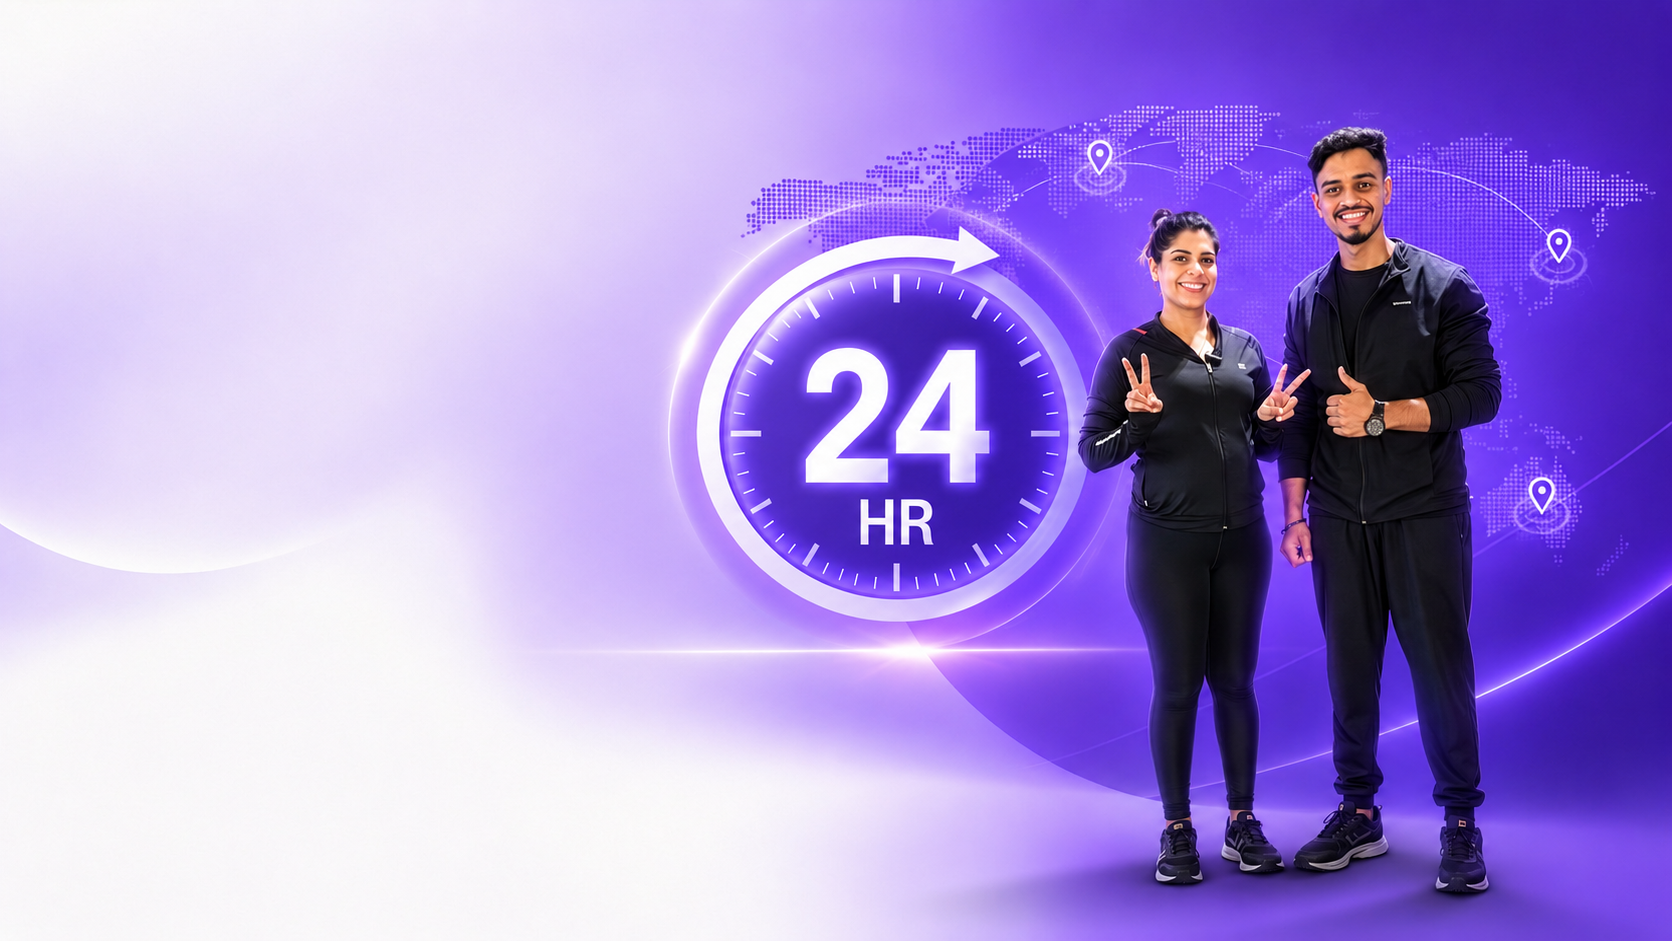
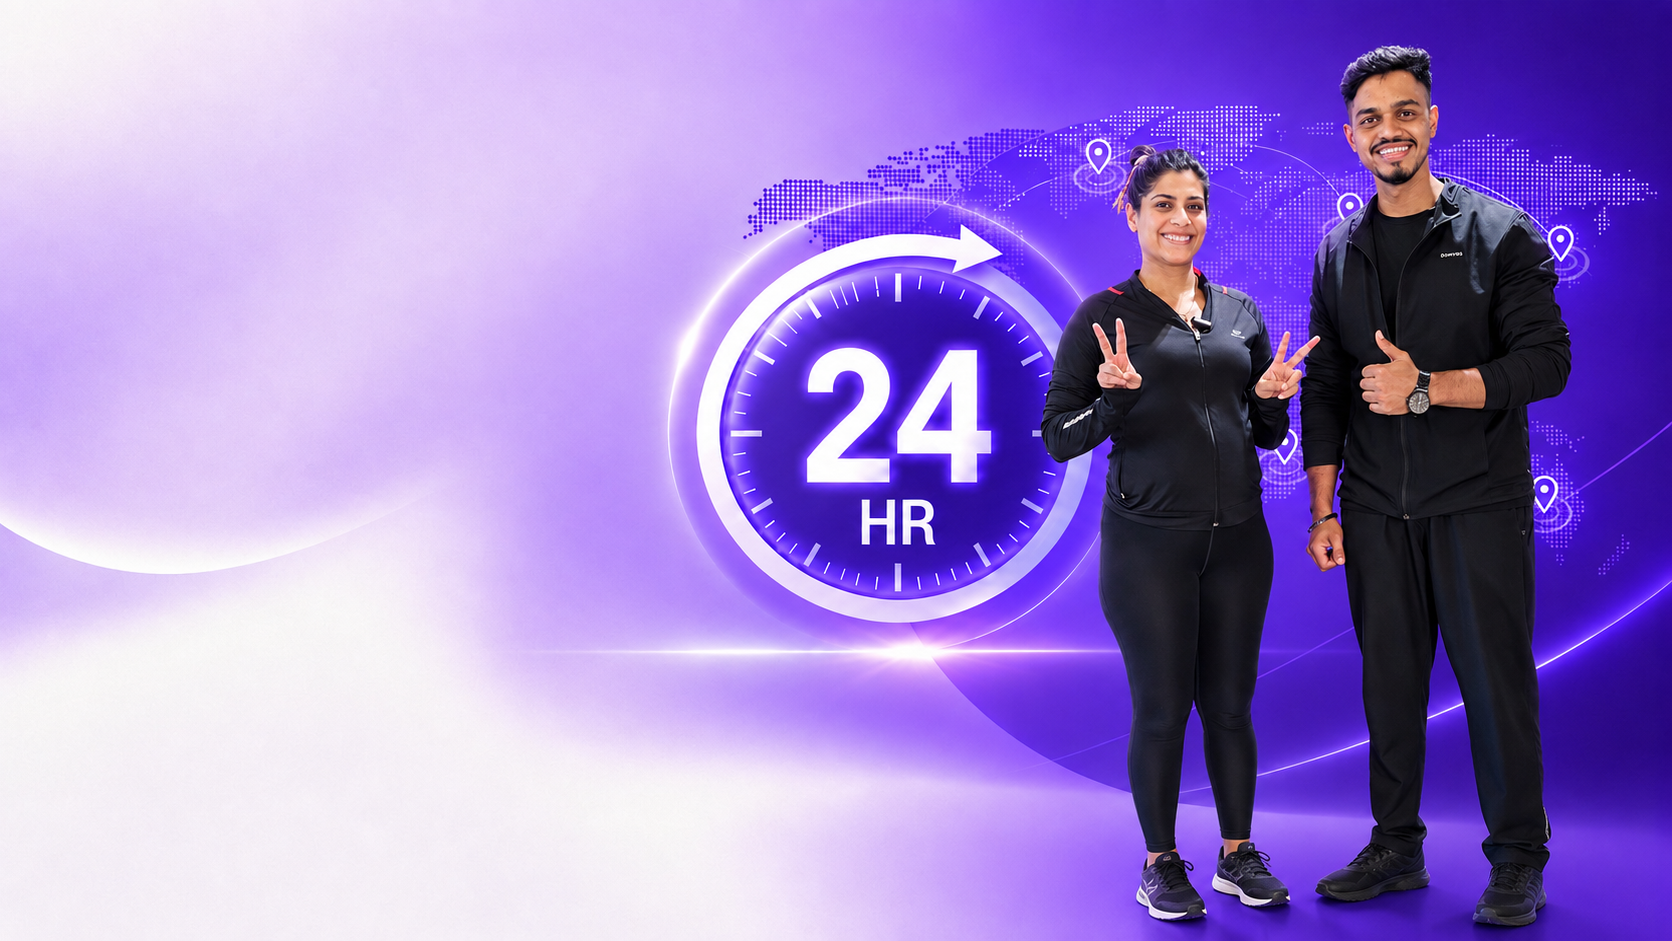
update website

diff --git a/css/footer.css b/css/footer.css
@@ -270,3 +270,67 @@
   100% { transform: translateX(200%); }
 }
 
+
+
+/* =========================================
+   Footer Coming Soon Banner
+   ========================================= */
+.footer-coming-soon {
+  /* Lighter purple gradient */
+  background: linear-gradient(135deg, #6A1B9A 0%, #8E24AA 100%); 
+  border-radius: 16px;
+  padding: 60px 40px;
+  margin-bottom: 80px;
+  text-align: center;
+  box-shadow: 0 10px 30px rgba(106, 27, 154, 0.3);
+  position: relative;
+  overflow: hidden;
+}
+
+/* Subtle light glow inside the box */
+.footer-coming-soon::before {
+  content: '';
+  position: absolute;
+  top: 0;
+  left: 0;
+  width: 100%;
+  height: 100%;
+  background: radial-gradient(circle at top, rgba(255, 255, 255, 0.15) 0%, transparent 60%);
+  pointer-events: none;
+}
+
+.coming-soon-title {
+  font-family: var(--font-display);
+  font-size: 1.2rem;
+  font-weight: 700;
+  letter-spacing: 0.3em;
+  color: #D8B4FE !important; 
+  text-transform: uppercase;
+  margin-bottom: 24px;
+  text-shadow: 0 2px 4px rgba(0, 0, 0, 0.2);
+  position: relative;
+  z-index: 1;
+}
+
+.coming-soon-desc {
+  font-family: var(--font-body);
+  font-size: 1.1rem;
+  color: #C4B5FD !important; 
+  line-height: 1.8;
+  max-width: 1000px;
+  margin: 0 auto;
+  position: relative;
+  z-index: 1;
+}
+
+/* Responsive tweak for mobile */
+@media (max-width: 768px) {
+  .footer-coming-soon {
+    padding: 40px 20px;
+    margin-bottom: 60px;
+  }
+  
+  .coming-soon-desc {
+    font-size: 1rem;
+  }
+}

diff --git a/index.html b/index.html
@@ -685,6 +685,14 @@
     <!-- Footer -->
     <footer id="footer" class="footer">
       <div class="container">
+          <!-- NEW: Coming Soon Announcement -->
+        <div class="footer-coming-soon reveal">
+          <h3 class="coming-soon-title">Coming Soon</h3>
+          <p class="coming-soon-desc">
+            Your fitness journey is about to get even smarter. Our all-new web application is launching<br>
+            soon to help you track workouts, nutrition, progress and coaching - all in one place.
+          </p>
+        </div>
         <div class="footer-grid">
           <div class="footer-col footer-brand">
             <a href="#hero" class="nav-logo">
